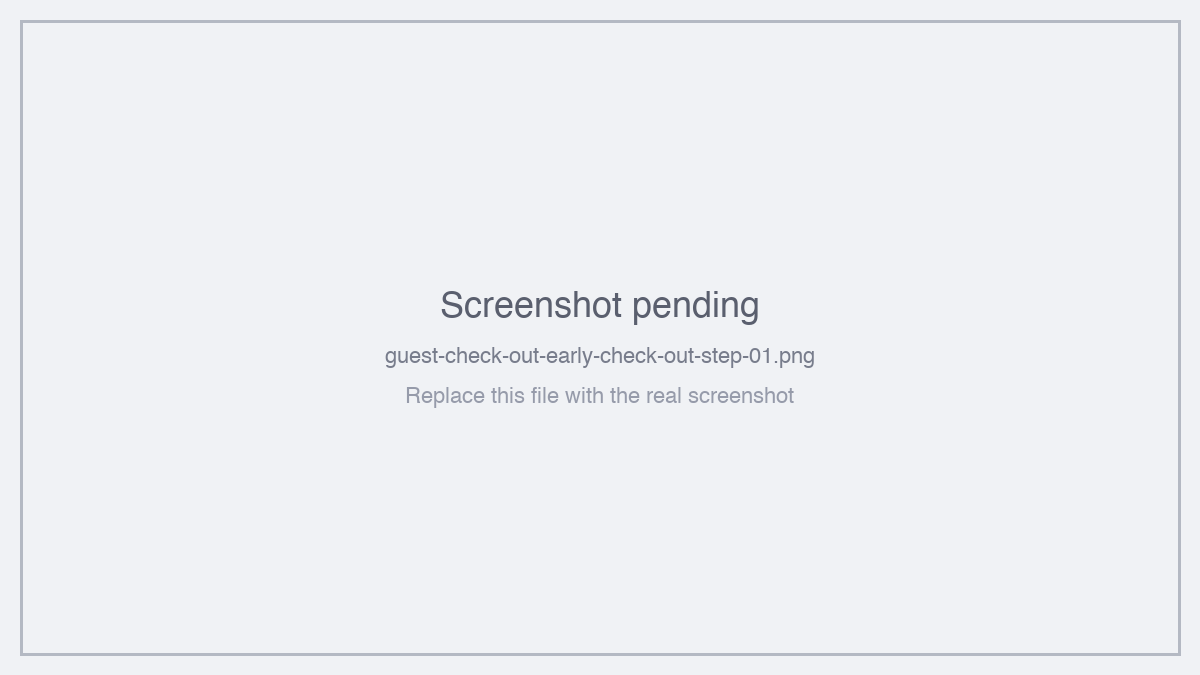
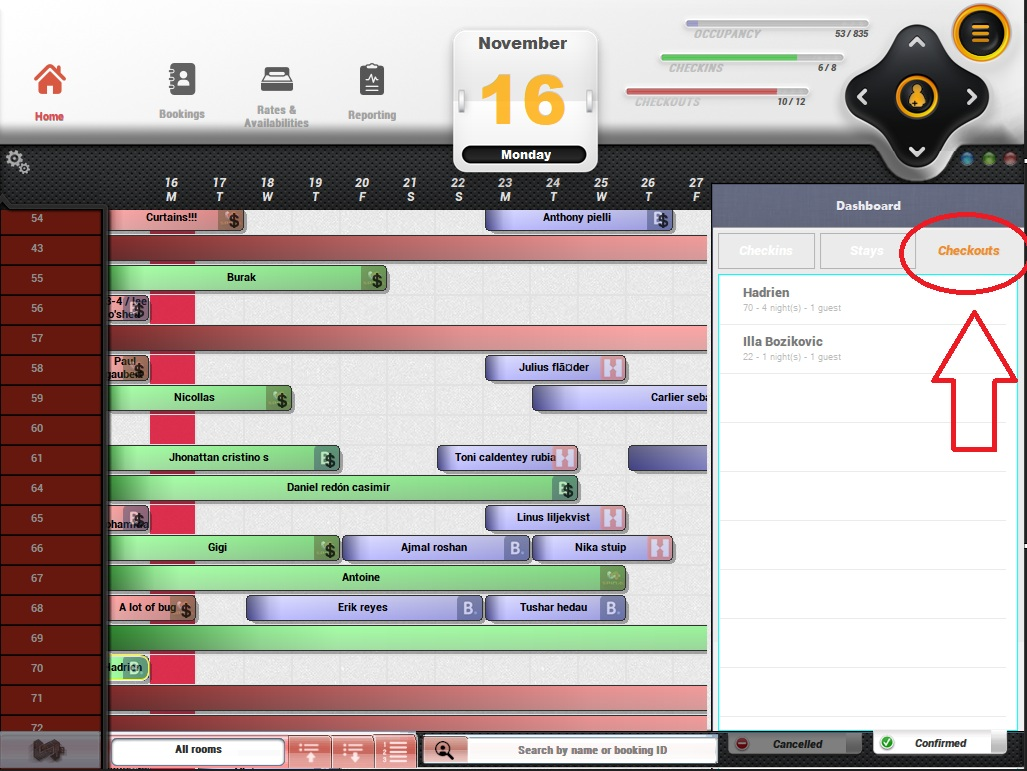
Update check-out step 2 to include outstanding balances and customer comments

diff --git a/src/content/front-desk/index.ts b/src/content/front-desk/index.ts
@@ -48,7 +48,7 @@ export const frontDeskProcedures: Procedure[] = [
     introduction: 'PLACEHOLDER: Real steps to be added.',
     steps: [
       { title: 'Confirm departure', description: 'Verify the guest is checking out and the date.', images: [{ src: img('guest-check-out-early-check-out', 1), alt: 'Check-out', caption: 'Screenshot pending' }] },
-      { title: 'Settle outstanding charges', description: 'Process any remaining balance.', callouts: [{ type: 'important', content: 'Confirm all charges before closing.' }] },
+      { title: 'Settle outstanding charges', description: 'Check and settle any outstanding balances, and also review the comments left in the customer profile.', callouts: [{ type: 'important', content: 'Confirm all charges and customer comments before closing.' }] },
       { title: 'Collect key', description: 'Retrieve the room key/card.' },
       { title: 'Mark checked out in Spinal', description: 'Update the reservation status.', images: [{ src: img('guest-check-out-early-check-out', 2), alt: 'Status update', caption: 'Screenshot pending' }] },
       { title: 'Notify housekeeping', description: 'Trigger room cleaning turnover.' },
